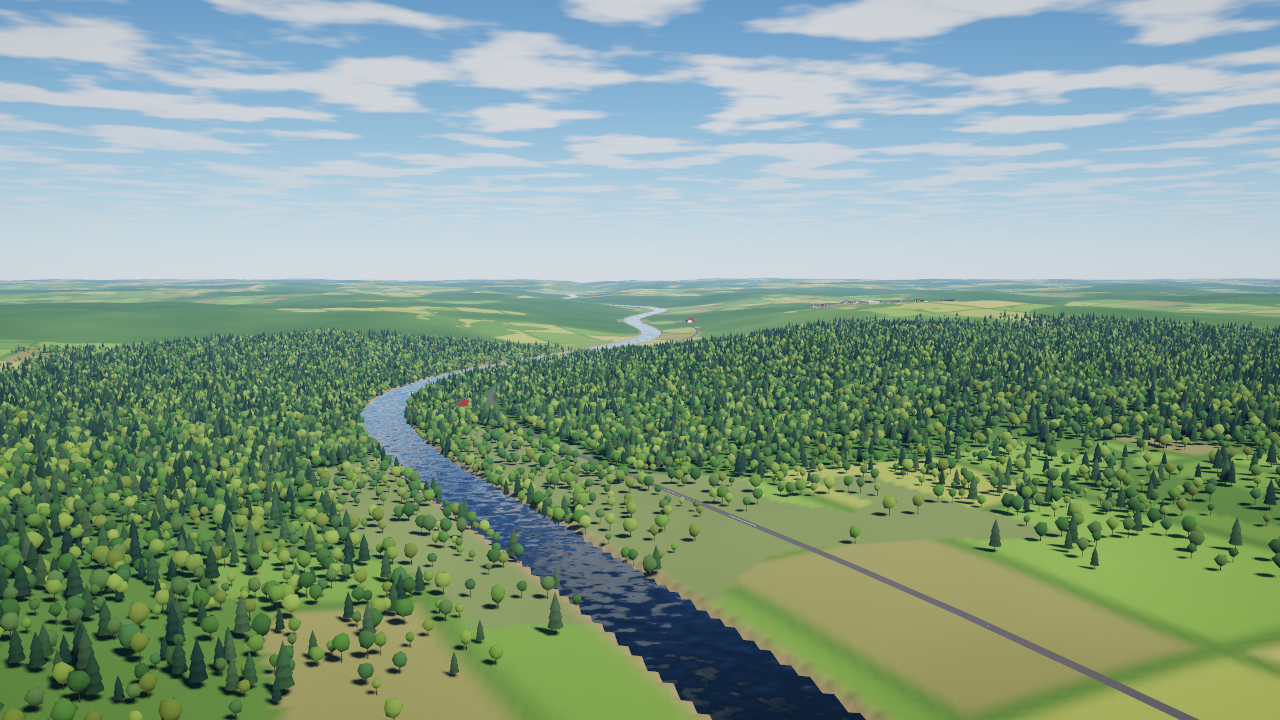
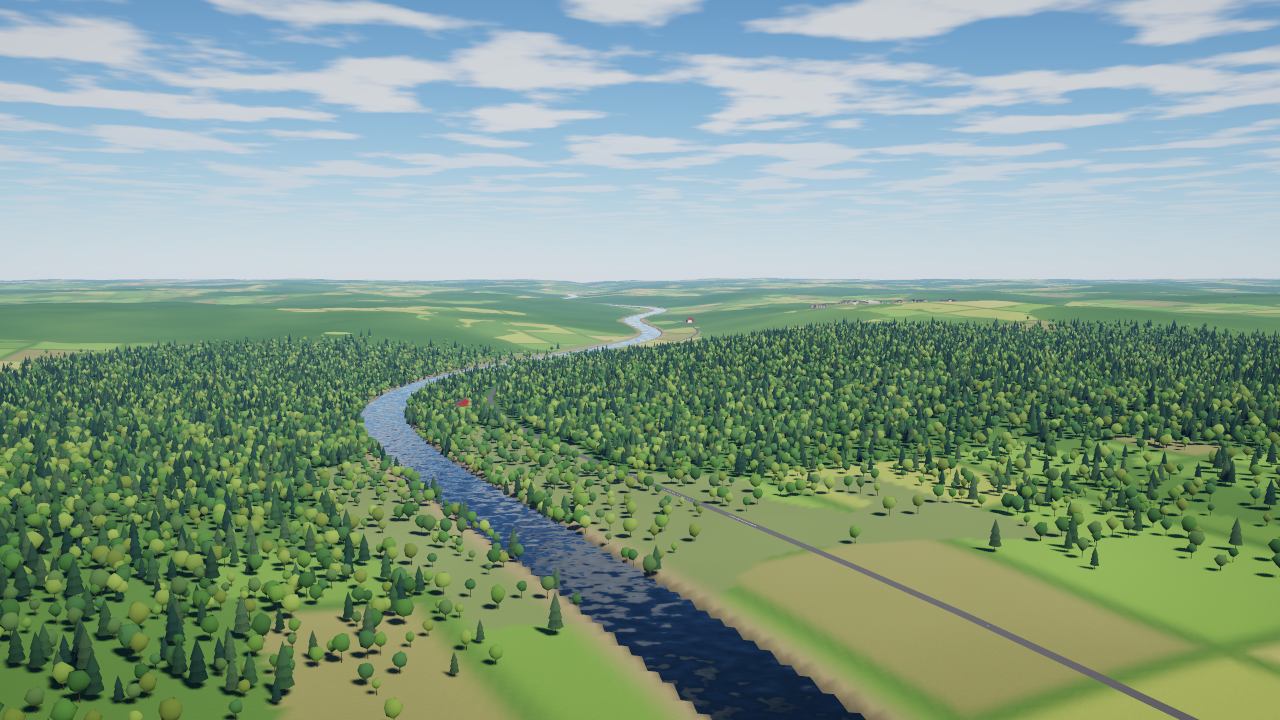
[P1.3] Soft tree-density edge at the object radius; wider wet-mud river banks
Claude-Session: https://claude.ai/code/session_01LuDJ4arcj2AiLQbMi9mk9u

diff --git a/Packages/SkyforgeKit/Sources/SFPreview/SceneBuilder.swift b/Packages/SkyforgeKit/Sources/SFPreview/SceneBuilder.swift
@@ -74,9 +74,13 @@ public struct SceneBuilder {
         let snow = Float(smoothstep(-1, -4, t) * (1 - smoothstep(0.52, 0.72, slope)))   // holds up to ~35°
         c = c + (srgb(236, 240, 246) - c) * snow
         if terrain.kind == .coastline && z < 4 && z > terrain.seaLevel - 1 { c = srgb(206, 190, 150) }
-        if let r = terrain.river, rd < r.width / 2 + 14 {
-            let bank = Float(1 - smoothstep(r.width / 2, r.width / 2 + 14, rd))
-            c = c + (srgb(112, 100, 78) - c) * bank
+        if let r = terrain.river, rd < r.width / 2 + 26 {
+            // Wider bank with wet mud at the waterline (art review: dark water against grass made the
+            // vertex-spacing waterline read as sawtooth; a low-contrast bank hides it).
+            let bank = Float(1 - smoothstep(r.width / 2 + 4, r.width / 2 + 26, rd))
+            c = c + (srgb(112, 102, 80) - c) * bank
+            let wet = Float(1 - smoothstep(r.width / 2 - 2, r.width / 2 + 9, rd))
+            c = c + (srgb(58, 60, 50) - c) * wet
         }
         if let a = airfield, slope < 0.2 { c = airfieldGrass(x, y, a, current: c) }
         // Macro variation breaks up uniformity (no visible tiling).
@@ -475,6 +479,16 @@ public struct SceneBuilder {
     }
 
     // MARK: Trees
+
+    /// Whether a tree at distance `dist` from the object focus survives the edge fade: density thins
+    /// smoothly over the outer quarter of `radius` (art review: forests stopped at a hard ring).
+    public static func keepTree(_ p: SIMD3<Double>, dist: Double, radius r: Double) -> Bool {
+        if dist > r { return false }
+        let edge = (r - dist) / (0.25 * r)
+        if edge >= 1 { return true }
+        let h = Hash.unit(Hash.combine(UInt64(bitPattern: Int64(p.x * 4)), UInt64(bitPattern: Int64(p.y * 4)) ^ 0x7E3D))
+        return h < edge * edge * (3 - 2 * edge)
+    }
 
     public mutating func addTree(_ t: Tree, detail: Int) {
         let p = t.position

diff --git a/Packages/SkyforgeKit/Sources/SFQuickFlight/QuickFlight.swift b/Packages/SkyforgeKit/Sources/SFQuickFlight/QuickFlight.swift
@@ -99,7 +99,7 @@ public struct QuickFlightWorld: FlightWorld {
                 for t in chunk.trees {
                     let dx = t.position.x - focus.x, dy = t.position.y - focus.y
                     let dist = (dx * dx + dy * dy).squareRoot()
-                    if dist > r { continue }
+                    if !SceneBuilder.keepTree(t.position, dist: dist, radius: r) { continue }
                     b.addTree(t, detail: dist < d.treeDetailRadius ? 2 : 1)
                 }
             }

diff --git a/Packages/SkyforgeKit/Sources/SFPreview/Scenes.swift b/Packages/SkyforgeKit/Sources/SFPreview/Scenes.swift
@@ -136,7 +136,7 @@ public enum PreviewScenes {
                     let along = (d * fwd2.xy).sum()
                     if along < -30 { continue }
                     let dist = (d * d).sum().squareRoot()
-                    if dist > r { continue }
+                    if !SceneBuilder.keepTree(t.position, dist: dist, radius: r) { continue }
                     b.addTree(t, detail: dist < s.treeDetailRadius * 1.8 ? 2 : 1)
                 }
             }

diff --git a/docs/VISUAL_LOG.md b/docs/VISUAL_LOG.md
@@ -129,3 +129,5 @@ Open defects (next passes): near-field ground is flat colour (needs detail textu
 - Fixes: strata warped by noise with uneven spacing and half the contrast; CPU micro-relief normals 0.3 → 0.12 (matches Metal; low sun had turned them into blotches) and grass albedo detail calmer.
 - Open from the review: per-pixel land-cover evaluation (field borders still step at vertex spacing), river rebuilt like the coast, house variants, impostors beyond draw distance.
 - Houses: 30 % take colours from other regional schemes, headings jitter ±4°, 35 % get a lower side wing or garage (L-shaped plans); (a) no longer reads as clones.
+- Tree density now thins smoothly over the outer quarter of the object radius (Quick Flight and previews) instead of stopping at a ring.
+- River bank widened to 26 m with wet mud at the waterline: the vertex-spacing sawtooth remains in shape but no longer reads as dark water against bright grass. A true fix needs per-pixel water edges or a finer mesh along the river.

diff --git a/docs/VERIFICATION_LOG.md b/docs/VERIFICATION_LOG.md
@@ -85,3 +85,4 @@ Every gate run, CI run and manual verification. Newest at the bottom.
 - 2026-11-08T12:57:46Z gate fast on Linux x86_64: FAIL (HEAD 3ee4868)
 - 2026-11-08T13:03:15Z gate fast on Linux x86_64: PASS (HEAD 3ee4868)
 - 2026-11-08T13:14:31Z gate fast on Linux x86_64: PASS (HEAD db3311a)
+- 2026-11-08T13:27:58Z gate fast on Linux x86_64: PASS (HEAD 601145b)
